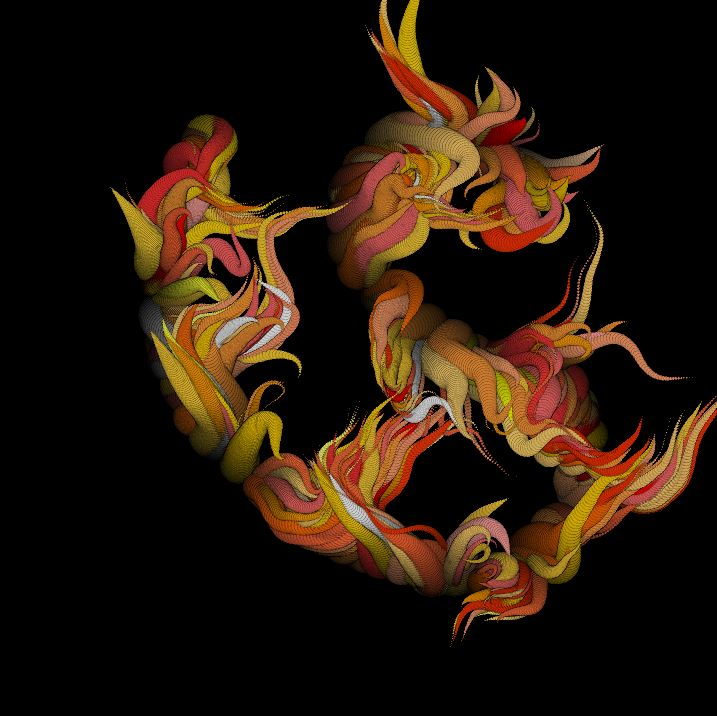
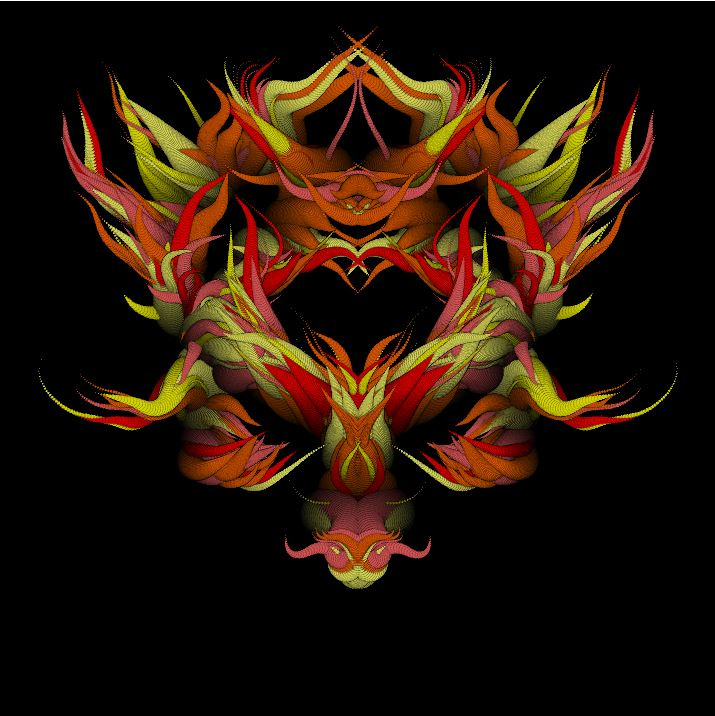
publish mirrored version

diff --git a/build/build-tmp/source/build.java b/build/build-tmp/source/build.java
@@ -33,13 +33,21 @@ public void setup() {
 	rectMode(CENTER);
 
 	pts = new ArrayList<Particle>();
-
+/*
+	for (int x = 0; x < width; x += 5) {
+		for (int y = 0; y < height; y += 5) {
+			Particle p = new Particle(x,y,0,0);
+			pts.add(p);
+		}
+	}
+*/
 	onPressed = false;
 
 	background(0);
 }
 
 public void draw() {
+
 	if (onPressed) {
 		for (int i = 0; i<10; i++) {
 		Particle p = new Particle(mouseX, mouseY,i,i);
@@ -69,10 +77,8 @@ public void mouseReleased() {
 
 public void keyPressed() {
 	if (key == 'c') {
-		Iterator<Particle> it = pts.iterator();
-		while (it.hasNext()) {
-			it.remove();
-		}
+		pts.clear();
+		background(0);
 	}
 }
 
@@ -102,7 +108,7 @@ class Particle{
 		dead = false;
 
 		colorMode(HSB,360,100,100);
-		c = color(random(0,60), random(40,90), random(0,20));
+		c = color(random(0,60), random(40,90), 1);
 
 		this.xOffset = xOffset;
 		this.yOffset = yOffset;
@@ -147,13 +153,15 @@ class Particle{
 		strokeWeight(size+1.5f);
 		stroke(0,alpha);
 		point(location.x,location.y);
+		point(width-location.x,location.y);
 
 		strokeWeight(size);
 		stroke(c);
 		point(location.x,location.y);
+		point(width-location.x,location.y);
 	}
 }
-  public void settings() { 	size(720,720,P2D); 	smooth(); }
+  public void settings() { 	size(720,720,P2D); 	smooth(2); }
   static public void main(String[] passedArgs) {
     String[] appletArgs = new String[] { "build" };
     if (passedArgs != null) {
